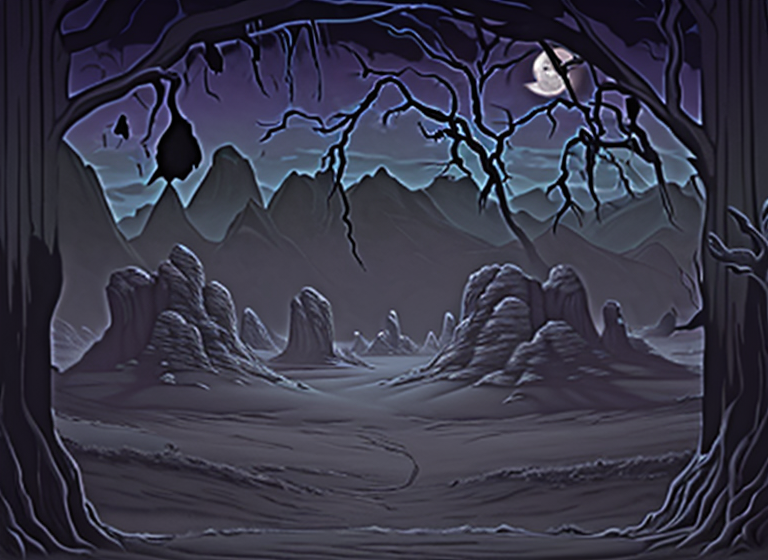
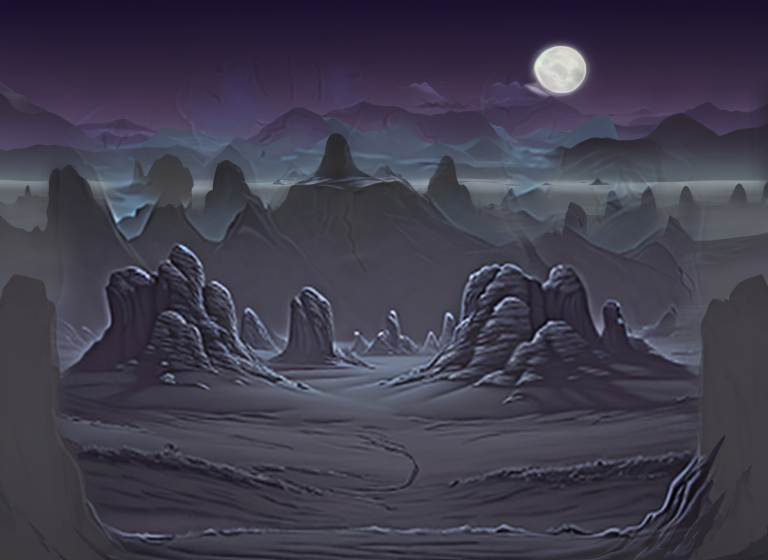
Kurhan: tło bez ramy z drzew (bez-ramy.py: ciemna rama połączona z krawędzią przemalowana przez AI na niebo, góry i ziemię)
Claude-Session: https://claude.ai/code/session_01ACpgVGYFhc89V1nkQx4Yem

Changed region(s): [[0.0, 0.0, 1.0, 1.0], [0.75, 0.9714, 0.8125, 1.0]]

diff --git a/tools/tla-ai/bez-ramy.py b/tools/tla-ai/bez-ramy.py
@@ -1,0 +1,31 @@
+# Usuwa ramę (pnie, gałęzie nad kadrem) z namalowanego tła: ciemne piksele przy krawędziach i u góry wypełnione barwą wiersza
+# (niebo / góry / ziemia z odsłoniętych miejsc), potem img2img i wklejenie tylko w obszarze ramy; środek obrazu zostaje.
+#   WYPELNIJ=szkic-bez-ramy.png python bez-ramy.py frakcja wejście.png wynik.png [siła=0.5] [ziarno=3]      env PROG (jasność ramy, domyślnie 34)
+import json, os, sys, numpy as np
+from PIL import Image, ImageDraw, ImageFilter
+fac, src, out = sys.argv[1:4]; strength = float(sys.argv[4]) if len(sys.argv) > 4 else 0.5; seed = int(sys.argv[5]) if len(sys.argv) > 5 else 3
+im = Image.open(src).convert('RGB'); a = np.asarray(im).astype(np.float32); H, W = a.shape[:2]; yy, xx = np.mgrid[0:H, 0:W]
+lum = a.mean(2); prog = float(os.environ.get('PROG', 34))
+ciemne = Image.fromarray(((lum < prog) * 255).astype(np.uint8)).filter(ImageFilter.MaxFilter(3))
+for x in range(0, W, 3):  # rama = ciemne piksele połączone z krawędzią obrazu (pnie, gałęzie); ciemne góry w środku zostają
+    for y in (0, H - 1):
+        if ciemne.getpixel((x, y)) == 255: ImageDraw.floodfill(ciemne, (x, y), 128)
+for y in range(0, H, 3):
+    for x in (0, W - 1):
+        if ciemne.getpixel((x, y)) == 255: ImageDraw.floodfill(ciemne, (x, y), 128)
+rama = (np.asarray(ciemne) == 128) | ((lum < prog) & (yy < H * 0.36))  # plus strzępy gałęzi wysoko na niebie
+rama = np.asarray(Image.fromarray((rama * 255).astype(np.uint8)).filter(ImageFilter.MaxFilter(11))) > 0
+f = np.asarray(Image.open(os.environ['WYPELNIJ']).convert('RGB').resize((W, H))).astype(np.float32)  # szkic bez ramy: niebo z księżycem, góry, ziemia
+sz = np.where(rama[..., None], f, a); szi = Image.fromarray(sz.clip(0, 255).astype(np.uint8)); szi.save(out.replace('.png', '-szkic.png'))
+if os.environ.get('SZKIC'): sys.exit()
+import torch
+from diffusers import StableDiffusionImg2ImgPipeline, DPMSolverMultistepScheduler
+torch.set_num_threads(os.cpu_count())
+O = json.load(open(os.path.join(os.path.dirname(os.path.abspath(__file__)), 'opisy.json'), encoding='utf-8'))
+pipe = StableDiffusionImg2ImgPipeline.from_pretrained('Lykon/dreamshaper-8', torch_dtype=torch.float32, variant='fp16', safety_checker=None, requires_safety_checker=False)
+pipe.scheduler = DPMSolverMultistepScheduler.from_config(pipe.scheduler.config, algorithm_type='dpmsolver++', use_karras_sigmas=True); pipe.set_progress_bar_config(disable=True)
+prompt = O['_styl'].replace('{opis}', O[fac].get('opis_bez_ramy', O[fac]['opis']))
+res = pipe(prompt, image=szi.resize((768, 560)), strength=strength, negative_prompt=O['_negatyw'] + ', trees, tree trunks, branches, frame, vignette',
+           num_inference_steps=30, guidance_scale=7, generator=torch.Generator().manual_seed(seed)).images[0].resize((W, H), Image.LANCZOS)
+mask = Image.fromarray((rama * 255).astype(np.uint8)).filter(ImageFilter.MaxFilter(9)).filter(ImageFilter.GaussianBlur(8))
+Image.composite(res, im, mask).save(out); print(out)

diff --git a/tools/tla-ai/szkic-rownina.py b/tools/tla-ai/szkic-rownina.py
@@ -2,7 +2,7 @@
 # niebo, postrzępione góry przy horyzoncie (ten sam co w układach: hor = 140 w kadrze gry), płaska ziemia w perspektywie przez
 # ponad połowę kadru, wąskie pasy ramy (martwe drzewa / skały) przy krawędziach. Barwy z opisy.json → <frakcja>.szkic.
 #   python szkic-rownina.py frakcja wynik.png
-import sys, json, numpy as np
+import os, sys, json, numpy as np
 from PIL import Image, ImageDraw, ImageFilter
 fac, out = sys.argv[1], sys.argv[2]; S = json.load(open('opisy.json', encoding='utf-8'))[fac]['szkic']
 W, H = 768, 560; hor = int((140 - 8) * H / 422); rng = np.random.default_rng(5)
@@ -26,8 +26,8 @@ def drzewo(x0, flip):  # martwe, sękate drzewo ramy: pień + gałęzie
     for i in range(7):
         y = 120 + i * 40; L = 60 + rng.random() * 90; d = 1 if (i % 2) ^ flip else -1; ang = -0.5 - rng.random() * 0.6
         g.line([(x0, y), (x0 + d * L, y + ang * L * 0.6), (x0 + d * L * 1.4, y + ang * L)], fill=c, width=max(3, 12 - i))
-drzewo(30, 0); drzewo(W - 30, 1)
-for x in (rng.random(4) * 120).tolist() + (W - rng.random(4) * 120).tolist():  # skały i nagrobki tylko przy brzegach u dołu
+if not os.environ.get('BEZ_RAMY'): drzewo(30, 0); drzewo(W - 30, 1)
+for x in [] if os.environ.get('BEZ_RAMY') else (rng.random(4) * 120).tolist() + (W - rng.random(4) * 120).tolist():  # skały i nagrobki tylko przy brzegach u dołu
     y = H - 20 - rng.random() * 90; w = 14 + rng.random() * 18; g.rounded_rectangle([x - w / 2, y - w * 1.3, x + w / 2, y], radius=5, fill=tuple(S['skaly']))
 mg = Image.new('L', (W, H), 0); ImageDraw.Draw(mg).rectangle([0, hor - 30, W, hor + 40], fill=110); mg = mg.filter(ImageFilter.GaussianBlur(18))  # mgła przy horyzoncie
 im = Image.composite(Image.new('RGB', (W, H), tuple(S['mgla'])), im, mg)
